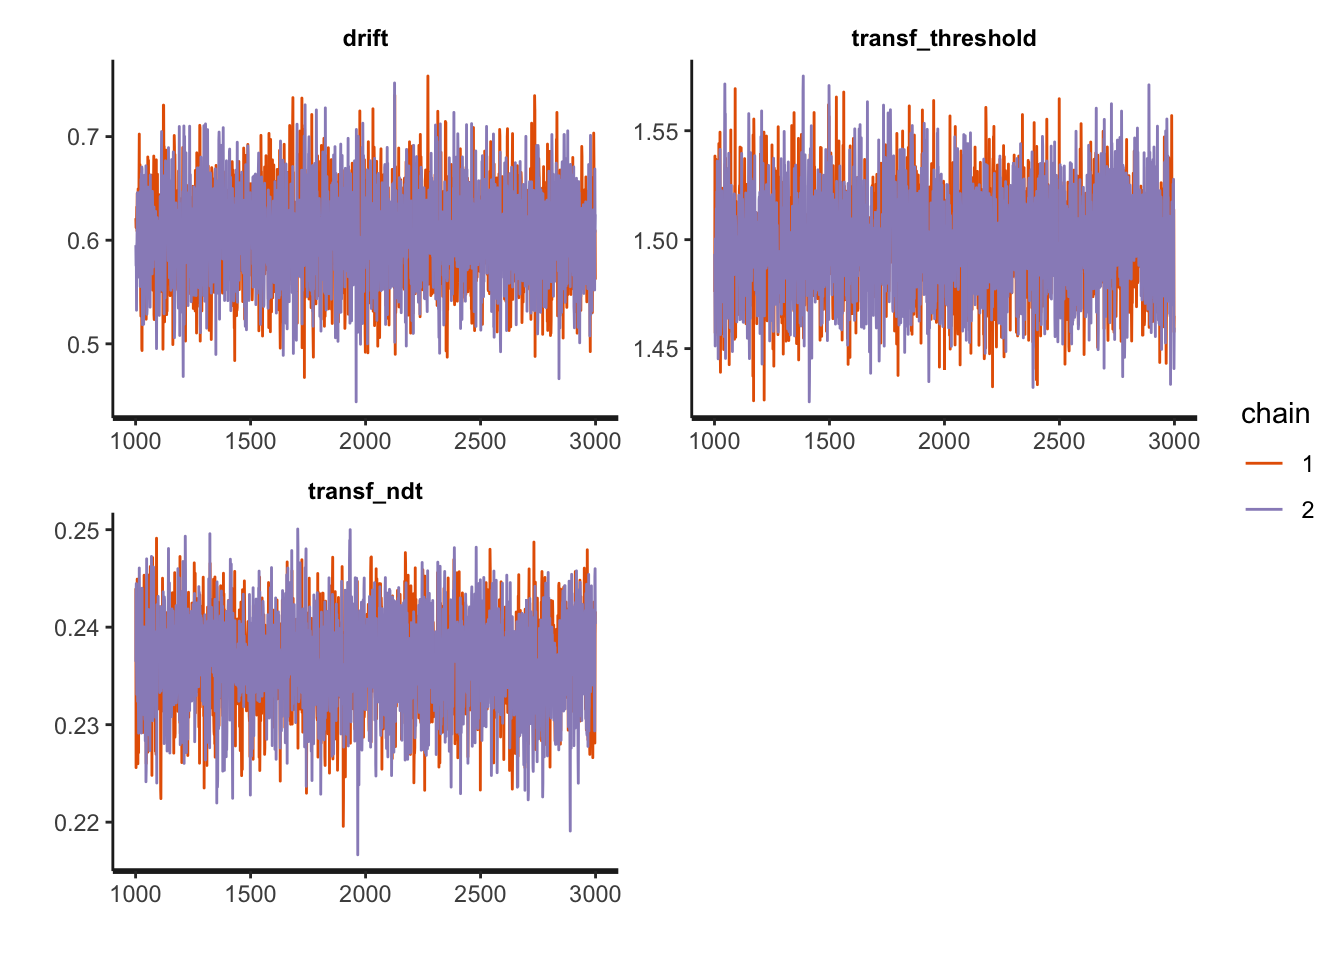
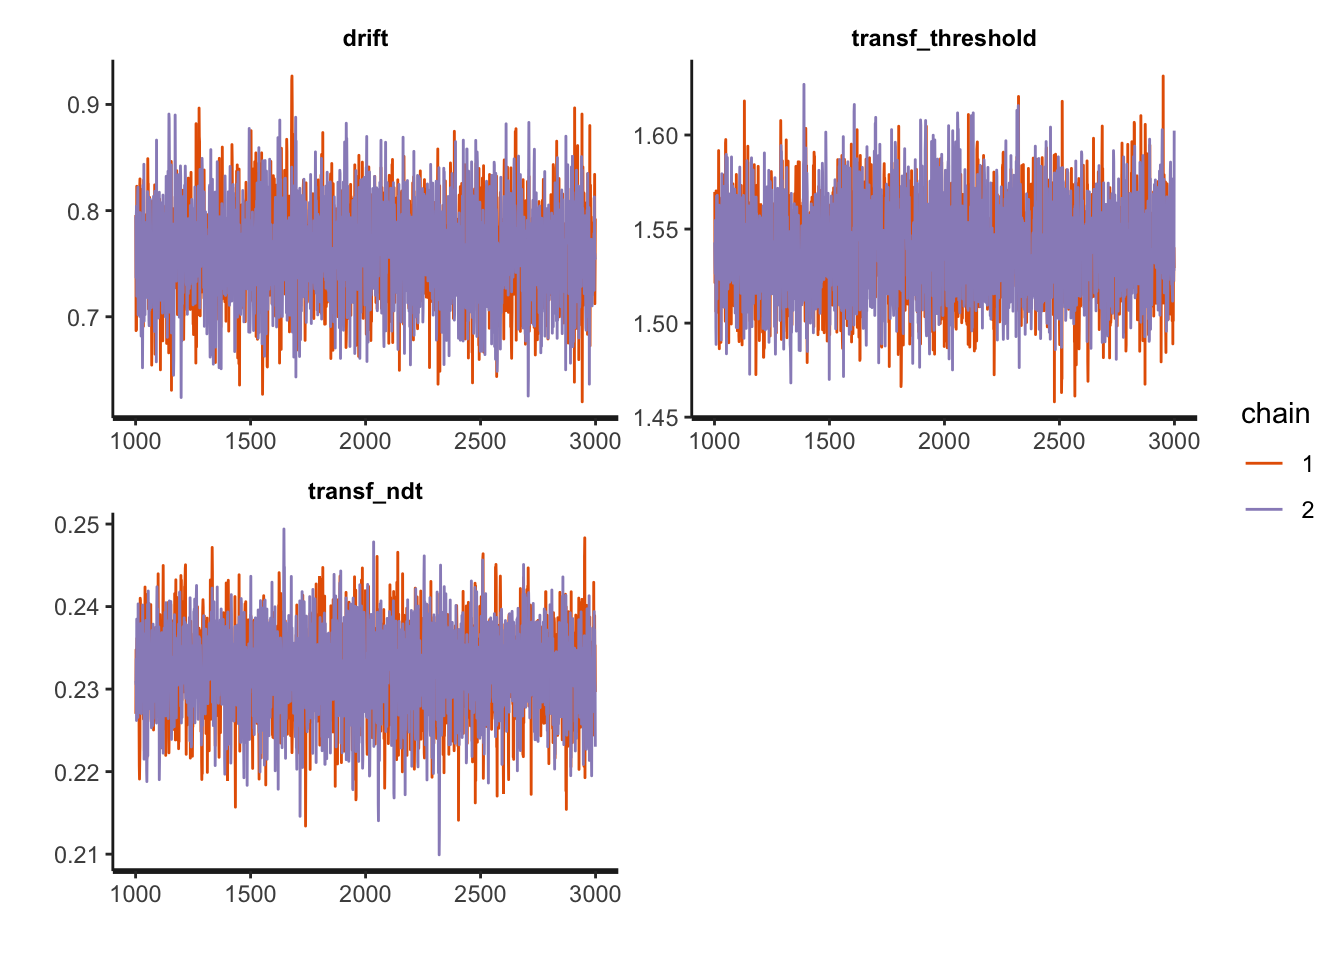
Fixed site bar

diff --git a/docs/DM.html b/docs/DM.html
@@ -241,7 +241,12 @@ $(document).ready(function () {
     </div>
     <div id="navbar" class="navbar-collapse collapse">
       <ul class="nav navbar-nav">
-        
+        <li>
+  <a href="index.html">Home</a>
+</li>
+<li>
+  <a href="DM.html">DM</a>
+</li>
       </ul>
       <ul class="nav navbar-nav navbar-right">
         
@@ -335,12 +340,12 @@ ggplot(data = sim_path, aes(x = time, y = dv))+
 <pre class="r"><code>sim_data &lt;- random_dm(n_trials=1000, drift=.7, threshold=1.5, ndt=.23)
 summary(sim_data)</code></pre>
 <pre><code>##      trial           accuracy           rt        
-##  Min.   :   1.0   Min.   :0.000   Min.   :0.2790  
-##  1st Qu.: 250.8   1st Qu.:0.000   1st Qu.:0.4650  
-##  Median : 500.5   Median :1.000   Median :0.6230  
-##  Mean   : 500.5   Mean   :0.713   Mean   :0.7631  
-##  3rd Qu.: 750.2   3rd Qu.:1.000   3rd Qu.:0.9273  
-##  Max.   :1000.0   Max.   :1.000   Max.   :3.6350</code></pre>
+##  Min.   :   1.0   Min.   :0.000   Min.   :0.2840  
+##  1st Qu.: 250.8   1st Qu.:1.000   1st Qu.:0.4660  
+##  Median : 500.5   Median :1.000   Median :0.6315  
+##  Mean   : 500.5   Mean   :0.764   Mean   :0.7660  
+##  3rd Qu.: 750.2   3rd Qu.:1.000   3rd Qu.:0.9295  
+##  Max.   :1000.0   Max.   :1.000   Max.   :4.0050</code></pre>
 <pre class="r"><code>ggplot(data = sim_data, mapping = aes(x = rt, fill = factor(accuracy))) + 
   geom_histogram(binwidth=.05, alpha = .3, position=&quot;identity&quot;)</code></pre>
 <p><img src="DM_files/figure-html/unnamed-chunk-5-1.png" width="672" /></p>
@@ -350,12 +355,12 @@ sim_data2$accuracy = 0
 sim_data2[sim_data2$response==&quot;upper&quot;, &quot;accuracy&quot;] = 1
 summary(sim_data2)</code></pre>
 <pre><code>##        rt          response      accuracy    
-##  Min.   :0.2768   lower:234   Min.   :0.000  
-##  1st Qu.:0.4593   upper:766   1st Qu.:1.000  
-##  Median :0.6165               Median :1.000  
-##  Mean   :0.7275               Mean   :0.766  
-##  3rd Qu.:0.8709               3rd Qu.:1.000  
-##  Max.   :3.4000               Max.   :1.000</code></pre>
+##  Min.   :0.2699   lower:257   Min.   :0.000  
+##  1st Qu.:0.4554   upper:743   1st Qu.:0.000  
+##  Median :0.6376               Median :1.000  
+##  Mean   :0.7710               Mean   :0.743  
+##  3rd Qu.:0.9380               3rd Qu.:1.000  
+##  Max.   :3.6961               Max.   :1.000</code></pre>
 <div id="parameter-recovery-with-mle" class="section level2">
 <h2>Parameter recovery with MLE</h2>
 <p>An efficient approximation to the likelihood function of the DM can be found in the <a href="https://www.sciencedirect.com/science/article/pii/S0022249609000200?via%3Dihub#appC">Navarro &amp; Fuss paper</a>. In the appendix, you can find the matlab code and convert it to R. However, a computationally efficient version of it can be also found in the <code>rtdists</code> package as well. We just need to wrap it to use in the MLE fitting later on:</p>
@@ -371,14 +376,14 @@ summary(sim_data2)</code></pre>
 <pre class="r"><code>starting_values = c(.5, 1, .1) # set some starting values
 
 print(log_likelihood_dm(starting_values, data=sim_data2)) # check that starting values are plausible</code></pre>
-<pre><code>## [1] -9451.493</code></pre>
+<pre><code>## [1] -10026.22</code></pre>
 <pre class="r"><code>fit1 &lt;- nmkb(par = starting_values,
              fn = function (x) log_likelihood_dm(x, data=sim_data2),
              lower = c(0, -10, 0),
              upper = c(10, 10, 5),
              control = list(maximize = TRUE))
 print(fit1$par) # print estimated parameters</code></pre>
-<pre><code>## [1] 1.4850084 0.8033710 0.2358612</code></pre>
+<pre><code>## [1] 1.5409210 0.6870549 0.2260279</code></pre>
 </div>
 <div id="parameter-recovery-with-stan" class="section level2">
 <h2>Parameter Recovery with stan</h2>
@@ -409,11 +414,11 @@ sim_data_for_stan = list(
 ## post-warmup draws per chain=2000, total post-warmup draws=4000.
 ## 
 ##                  mean se_mean   sd 2.5%  25%  50%  75% 97.5% n_eff Rhat
-## drift            0.60       0 0.04 0.52 0.58 0.60 0.63  0.69  2809    1
-## transf_threshold 1.50       0 0.02 1.45 1.48 1.50 1.51  1.54  2670    1
-## transf_ndt       0.24       0 0.00 0.23 0.23 0.24 0.24  0.25  2522    1
+## drift            0.76       0 0.04 0.68 0.73 0.76 0.79  0.84  2442    1
+## transf_threshold 1.54       0 0.03 1.49 1.52 1.54 1.56  1.59  2187    1
+## transf_ndt       0.23       0 0.01 0.22 0.23 0.23 0.24  0.24  2373    1
 ## 
-## Samples were drawn using NUTS(diag_e) at Wed Sep  8 11:58:20 2021.
+## Samples were drawn using NUTS(diag_e) at Wed Sep  8 12:13:24 2021.
 ## For each parameter, n_eff is a crude measure of effective sample size,
 ## and Rhat is the potential scale reduction factor on split chains (at 
 ## convergence, Rhat=1).</code></pre>
@@ -422,13 +427,13 @@ sim_data_for_stan = list(
 <p><img src="DM_files/figure-html/unnamed-chunk-12-1.png" width="672" /></p>
 <pre class="r"><code>sampler_params &lt;- get_sampler_params(fit1, inc_warmup = TRUE)
 summary(do.call(rbind, sampler_params), digits = 2)</code></pre>
-<pre><code>##  accept_stat__    stepsize__       treedepth__   n_leapfrog__   divergent__       energy__   
-##  Min.   :0.00   Min.   : 0.0026   Min.   :0.0   Min.   : 1.0   Min.   :0.000   Min.   : 827  
-##  1st Qu.:0.85   1st Qu.: 0.5896   1st Qu.:2.0   1st Qu.: 3.0   1st Qu.:0.000   1st Qu.: 828  
-##  Median :0.95   Median : 0.5913   Median :2.0   Median : 7.0   Median :0.000   Median : 829  
-##  Mean   :0.87   Mean   : 0.6514   Mean   :2.3   Mean   : 5.5   Mean   :0.005   Mean   : 832  
-##  3rd Qu.:0.99   3rd Qu.: 0.5913   3rd Qu.:3.0   3rd Qu.: 7.0   3rd Qu.:0.000   3rd Qu.: 831  
-##  Max.   :1.00   Max.   :15.6128   Max.   :5.0   Max.   :31.0   Max.   :1.000   Max.   :3444</code></pre>
+<pre><code>##  accept_stat__    stepsize__       treedepth__   n_leapfrog__   divergent__        energy__   
+##  Min.   :0.00   Min.   : 0.0029   Min.   :0.0   Min.   : 1.0   Min.   :0.0000   Min.   : 782  
+##  1st Qu.:0.88   1st Qu.: 0.5412   1st Qu.:2.0   1st Qu.: 3.0   1st Qu.:0.0000   1st Qu.: 783  
+##  Median :0.96   Median : 0.5550   Median :2.0   Median : 7.0   Median :0.0000   Median : 784  
+##  Mean   :0.89   Mean   : 0.6119   Mean   :2.4   Mean   : 5.9   Mean   :0.0038   Mean   : 785  
+##  3rd Qu.:0.99   3rd Qu.: 0.5550   3rd Qu.:3.0   3rd Qu.: 7.0   3rd Qu.:0.0000   3rd Qu.: 786  
+##  Max.   :1.00   Max.   :14.3855   Max.   :6.0   Max.   :63.0   Max.   :1.0000   Max.   :2092</code></pre>
 <p>More plotting:</p>
 <pre class="r"><code>posterior &lt;- as.matrix(fit1)
 

diff --git a/docs/index.html b/docs/index.html
@@ -241,7 +241,12 @@ $(document).ready(function () {
     </div>
     <div id="navbar" class="navbar-collapse collapse">
       <ul class="nav navbar-nav">
-        
+        <li>
+  <a href="index.html">Home</a>
+</li>
+<li>
+  <a href="DM.html">DM</a>
+</li>
       </ul>
       <ul class="nav navbar-nav navbar-right">
         
